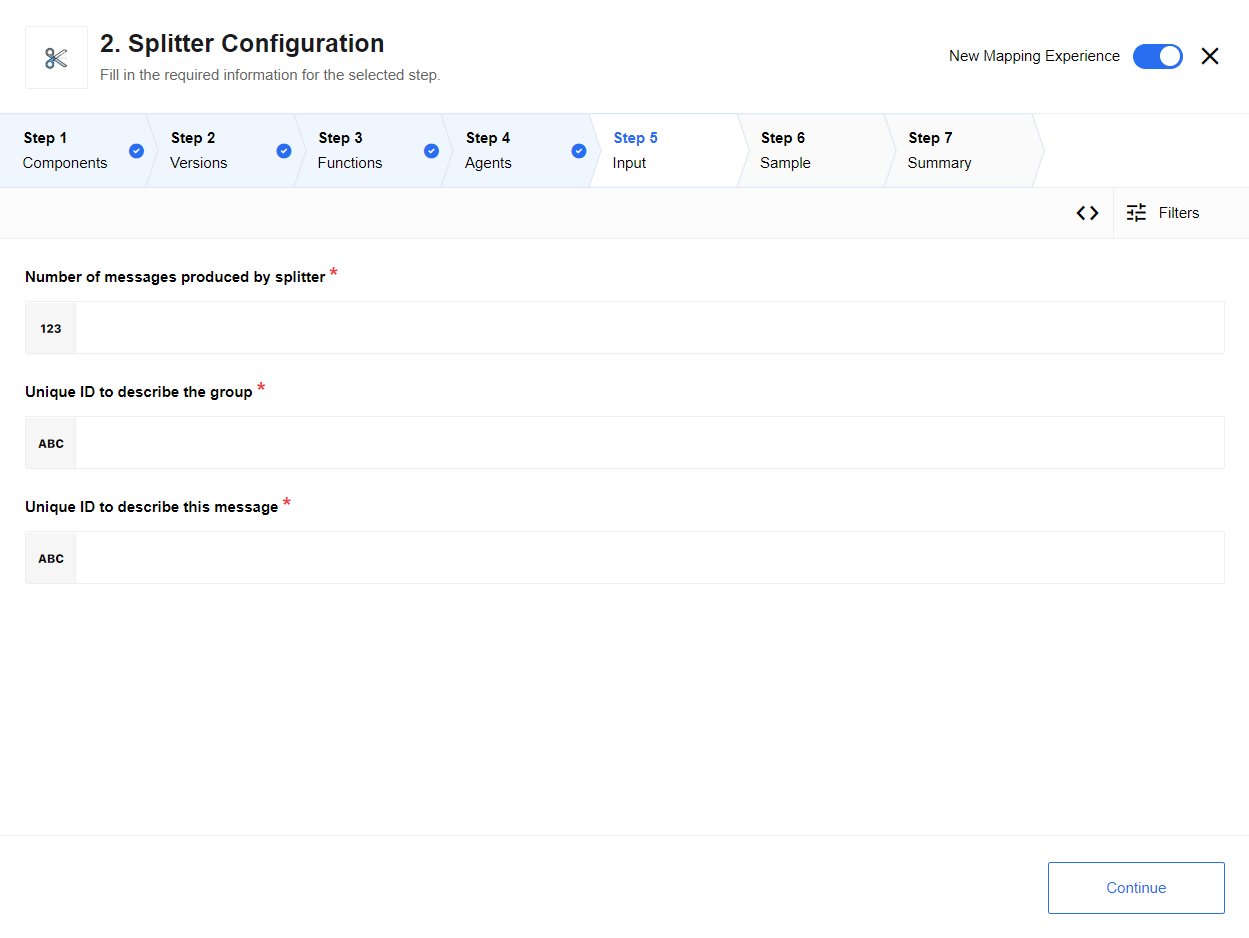
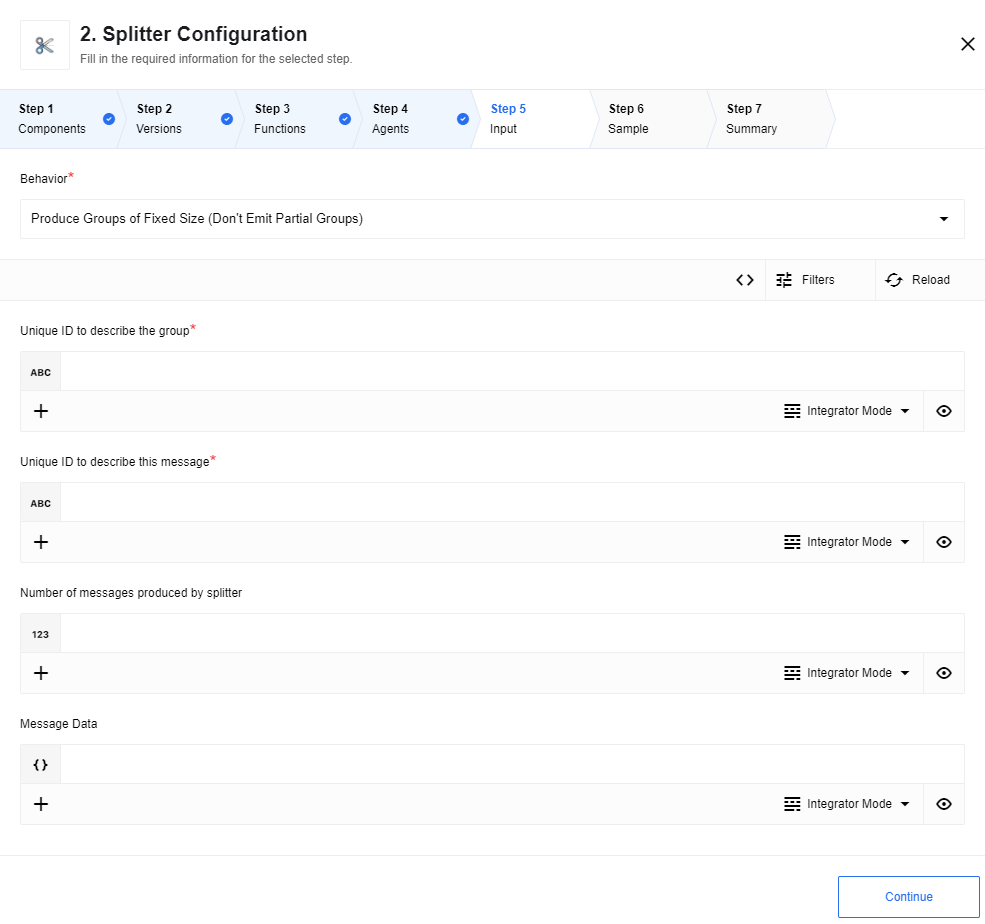
Components update 12.10

diff --git a/content/_components/splitter/index.md b/content/_components/splitter/index.md
@@ -115,6 +115,16 @@ message parts have arrived:
 
 ![Re-assemble Messages](img/re-assemble.png)
 
+#### List of Expected Config fields
+
+`Behavior` - Has 3 different behaviour variants(options):
+
+![3 Groups](img/3-groups.png)
+
+* Produce Groups of Fixed Size (Don't Emit Partial Groups): A message is emitted once the group size is reached for the given group. If arriving messages for a particular group are less than the defined group size then the group will not be emitted.
+* Group All Incoming Messages: All incoming messages will be gathered until there are no more incoming messages at which point messages will be emitted for each group.
+* Produce Groups of Fixed Size (Emit Partial Groups): Specify both group size and delay timer. Once a group is complete, that group will be emitted. Once there are no more incoming messages, then partially completed groups will also be emitted.
+
 #### Supported
 
 * Messages can be re-ordered in the flow
@@ -122,27 +132,21 @@ message parts have arrived:
 * Messages from one original message can be interleaved with messages from another original message
 (e.g. Two overlapping webhook calls arrive and the flow has components where parallel processing > 1.)
 
-#### Limitations
+#### Limitations:
 
 * All groups must have one or more messages. (i.e. No groups of size 0).
-Can't do re-grouping when a split is done on an empty array. (i.e. No empty for each pattern supported)
-* If all messages in a group fail to arrive at the re-assemble action (because one message suffered an error earlier in the flow)
-then this component will silently discard the group.
-* All messages must arrive within the same container lifetime.
-If at any point there is more than a 15 second gap in messages, then the group will be silently discarded.
+Can't do re-grouping when a split is done on an empty array. (i.e. No empty for each pattern supported).
+If all the messages in the group do not arrive, then the group will not be emitted.
 * The group is dropped if there are any unexpected restarts to the container.
-* Size of the group must be known by all group members.
-* Messages are only emitter when all parts arrive. Emitting a message only when the first part arrives isn't supported.
-* The contents of data that are picked up by the sub-messages aren't passed forward to future steps.
+* In case only a groupSize is given and no delay timer is specified. The size of the group must be known by all group members.
+* In case of using the delay timer. Messages are only emitted when all parts arrive. Emitting a message only when the first part arrives isn't supported.
+* The delay timer can not exceed 40,000 milliseconds. If more than this maximum is given, then this maximum will be used instead.
 
 #### List of Expected Config fields
 
-`groupSize` - Number of messages in the group
-
-`groupId` - Globally unique id for the group to distinguish it from other groups. This value needs to be the same for all messages in a group.
-
-`messageId` - Id for a message to distinguish it from other messages in the group.
- 
+*  `groupId` - Globally unique id for the group to distinguish it from other groups. This value needs to be the same for all messages in a group.
+*  `messageId` - Id for a message to distinguish it from other messages in the group.
 Must be unique per group but does not have to be globally unique. This value needs to be different for all messages in a group.
-
-`messageData` - object for providing some data derived from the steps between splitting and re-assembling
+*  `messageData` - Data from individual messages can be inserted here in form of an object. This object is then inserted into an array which is available in the message emitted for this group.
+*  `groupSize` - Number of messages in the group.
+*  `Delay timer (in ms)` - Time the process waits when no incoming messages before emiting (Max 40,000 milliseconds)
